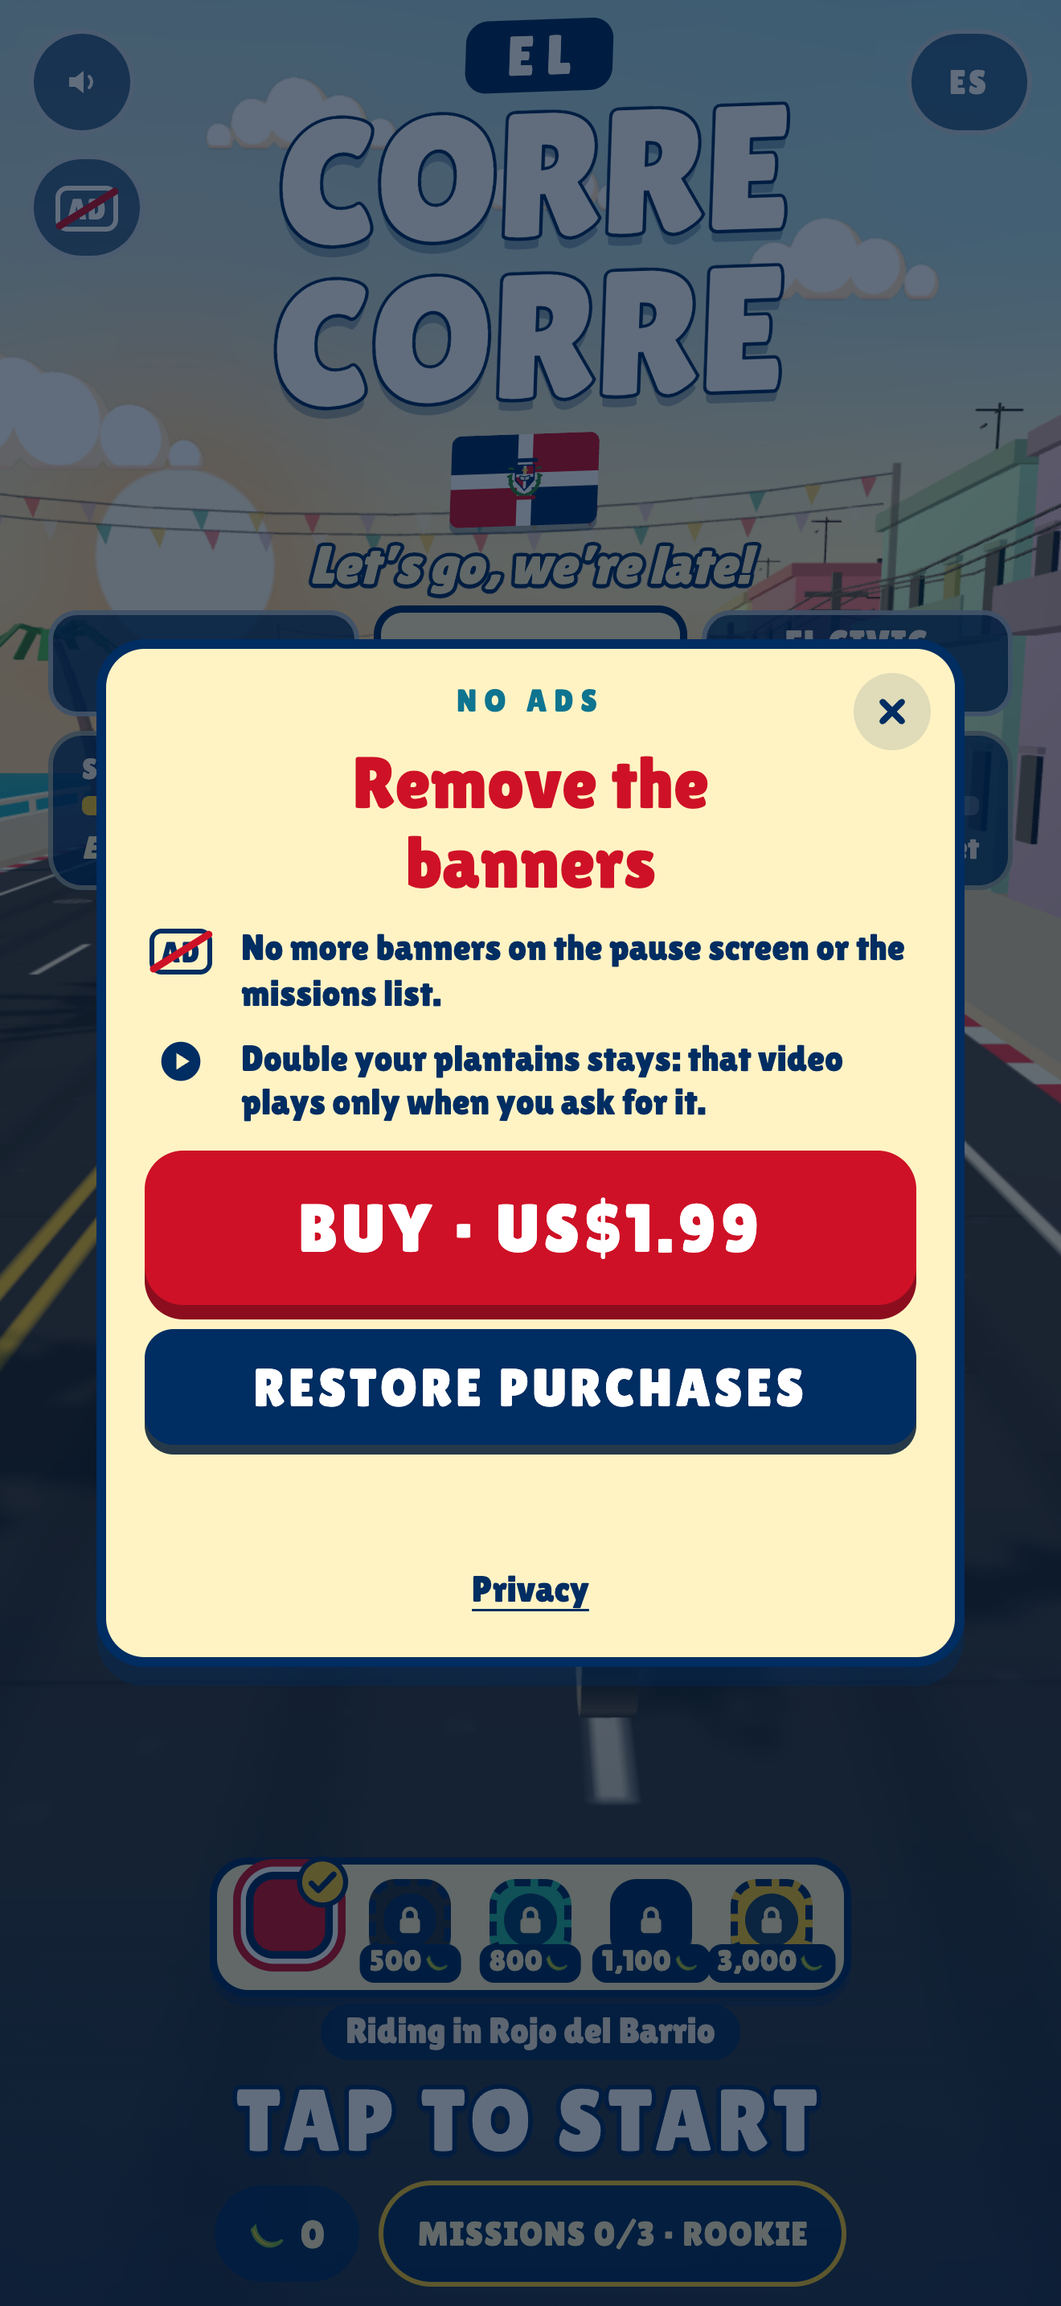
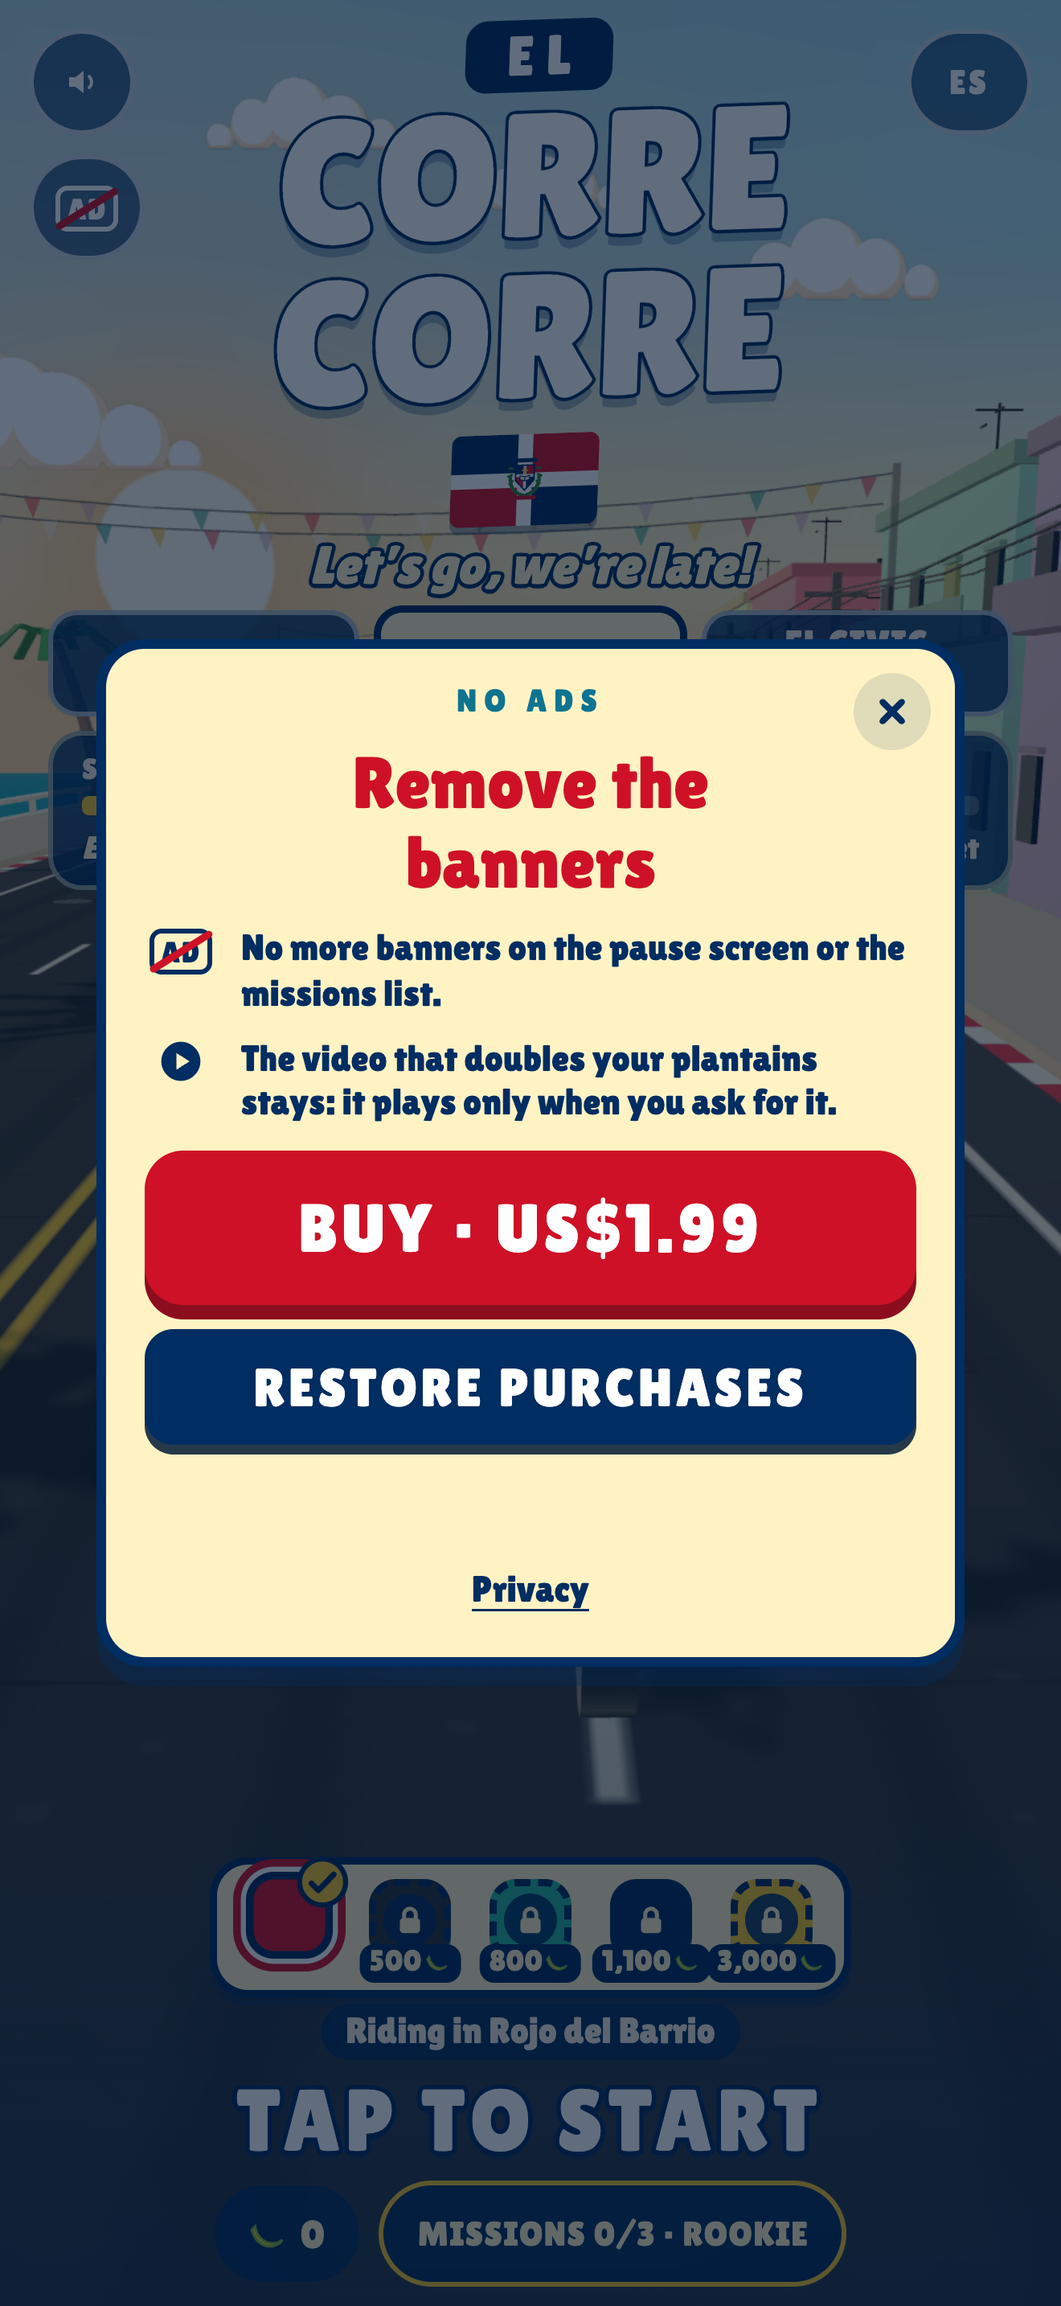
Duplica tus plátanos: the right Spanish for doubling
Dobla means fold. The reward is now Duplica tus plátanos everywhere: the
card line reads ¡Duplícalos con un anuncio! (EN Double them with an ad!),
which fits one line on the iPhone SE, and the Remove Ads sheet says El
video pa’ duplicar tus plátanos sigue ahí. Review screenshots re-rendered
(1320x2868, no alpha). app-ads.txt is already live on aaguasvivas.github.io,
so that owner step is marked done.

Changed region(s): [[0.2174, 0.4344, 0.8076, 0.4965]]

diff --git a/src/ui.ts b/src/ui.ts
@@ -173,10 +173,10 @@ export const STRINGS = {
     trickNounCar: 'derrape',
     // Ads (docs/audit/ADS-PLAN.md): the opt-in video on the card, the
     // Remove Ads sheet, the links on PAUSA.
-    rewardLine: '¡Dobla tus plátanos con un anuncio!',
+    rewardLine: '¡Duplícalos con un anuncio!',
     rewardTag: 'anuncio',
-    rewardAria: 'Dobla tus plátanos: ver un anuncio',
-    rewardDone: '¡doblados!',
+    rewardAria: 'Duplica tus plátanos: ver un anuncio',
+    rewardDone: '¡duplicados!',
     noAds: 'Quitar anuncios',
     adPrivacy: 'Privacidad de anuncios', // Google's consent choices again (shown only where required)
     adTestTag: 'ANUNCIOS\nDE PRUEBA', // build:adtest only, on the title under EN
@@ -184,7 +184,7 @@ export const STRINGS = {
     storeTitle: 'Quita los banners',
     storeTitleOwned: 'Ya no tienes banners',
     storeBanners: 'Se van los banners de la pausa y de Los Mandaos.',
-    storeVideos: 'Dobla tus plátanos sigue ahí: ese video sale solo cuando tú lo pides.',
+    storeVideos: 'El video pa’ duplicar tus plátanos sigue ahí: sale solo cuando tú lo pides.',
     storeBuy: (price: string) => `COMPRAR · ${price}`,
     storeBuyBare: 'COMPRAR',
     storeOwned: '¡Gracias por apoyar el juego!',
@@ -344,7 +344,7 @@ export const STRINGS = {
     } satisfies Record<MandaoKind, (n: number, trick: string) => string>,
     trickNounBike: 'Wheelie',
     trickNounCar: 'Drift',
-    rewardLine: 'Double your plantains with an ad!',
+    rewardLine: 'Double them with an ad!',
     rewardTag: 'ad',
     rewardAria: 'Double your plantains: watch an ad',
     rewardDone: 'doubled!',
@@ -355,7 +355,7 @@ export const STRINGS = {
     storeTitle: 'Remove the banners',
     storeTitleOwned: 'Your banners are gone',
     storeBanners: 'No more banners on the pause screen or the missions list.',
-    storeVideos: 'Double your plantains stays: that video plays only when you ask for it.',
+    storeVideos: 'The video that doubles your plantains stays: it plays only when you ask for it.',
     storeBuy: (price: string) => `BUY · ${price}`,
     storeBuyBare: 'BUY',
     storeOwned: 'Thanks for supporting the game!',
@@ -441,7 +441,7 @@ export interface UICallbacks {
   riderRect(out: Band): void;
   // A ¡HECHO! stamp landed on the game-over card (i: its order on the card).
   onStamp(i: number): void;
-  // "Dobla tus plátanos" on the game-over card.
+  // "Duplica tus plátanos" on the game-over card.
   onReward(): void;
   // Remove Ads: open its sheet, buy, restore; and the ad consent choices.
   onNoAds(): void;
@@ -578,7 +578,7 @@ const CHECK_SVG =
   '<svg viewBox="0 0 16 16" width="14" height="14" aria-hidden="true"><path d="M3 8.6l3.1 3.1L13 4.6" fill="none" stroke="currentColor" stroke-width="2.6" stroke-linecap="round" stroke-linejoin="round"/></svg>';
 const LOCK_SVG =
   '<svg viewBox="0 0 16 16" width="14" height="14" aria-hidden="true"><path d="M5.2 7.2V5.4a2.8 2.8 0 0 1 5.6 0v1.8" fill="none" stroke="currentColor" stroke-width="1.9"/><rect x="3.2" y="7" width="9.6" height="7.2" rx="1.8" fill="currentColor"/></svg>';
-// "Dobla tus plátanos": a video's play mark, and the check once it paid.
+// "Duplica tus plátanos": a video's play mark, and the check once it paid.
 const PLAY_SVG =
   '<svg viewBox="0 0 20 20" width="18" height="18" aria-hidden="true"><circle cx="10" cy="10" r="9" fill="#002d62"/><path d="M8 6.2v7.6l6-3.8z" fill="#fff3c4"/></svg>';
 const CHECK_RW_SVG =
@@ -751,7 +751,7 @@ export class UI {
   private mandaoSheetEl: HTMLElement;
   private pauseMandaosEl: HTMLElement;
   private btnPrivacyEl: HTMLElement;
-  // Ads: the card's "Dobla tus plátanos", the Remove Ads entries and sheet.
+  // Ads: the card's "Duplica tus plátanos", the Remove Ads entries and sheet.
   private btnReward: HTMLElement;
   private rewardTagEl: HTMLElement;
   private rewardOn = false;
@@ -1106,7 +1106,7 @@ export class UI {
         e.stopImmediatePropagation();
       }
     });
-    // "Dobla tus plátanos": its own tap only once armed (CSS lets the card
+    // "Duplica tus plátanos": its own tap only once armed (CSS lets the card
     // take every tap before that), and never twice.
     this.press(this.btnReward, () => {
       if (this.btnReward.classList.contains('armed') && !this.rewardPaid && !this.btnReward.classList.contains('busy')) this.cb.onReward();
@@ -1785,7 +1785,7 @@ export class UI {
 
   // ---------------- ads ----------------
 
-  // "Dobla tus plátanos" on the card: shown only while a video is loaded and
+  // "Duplica tus plátanos" on the card: shown only while a video is loaded and
   // this run can still be paid (main decides). It sits in the plátanos row,
   // up in the card and far from OTRA VEZ, and it only takes taps once the
   // card has been up CONFIG.rewardArmSec (until then a tap there is a tap

diff --git a/site/privacy.html b/site/privacy.html
@@ -45,7 +45,7 @@
     <p>Tus récords, tus plátanos, tus pinturas, tus mandaos y tu racha, tu vehículo preferido, el idioma, el ajuste de sonido y, si compraste Quitar anuncios, una marca de esa compra se guardan solamente en tu dispositivo. Si borras la app, se borran con ella.</p>
 
     <h2>Anuncios (Google AdMob)</h2>
-    <p>El juego muestra anuncios de Google AdMob: un banner pequeño en la pausa y en Los Mandaos, y un video que sale solo si tocas «Dobla tus plátanos». Nunca hay anuncios mientras corres. Para servir y medir esos anuncios, el SDK de anuncios de Google (Google Mobile Ads) y su herramienta de consentimiento (User Messaging Platform) recogen estos datos de tu dispositivo:</p>
+    <p>El juego muestra anuncios de Google AdMob: un banner pequeño en la pausa y en Los Mandaos, y un video que sale solo si tocas «Duplica tus plátanos». Nunca hay anuncios mientras corres. Para servir y medir esos anuncios, el SDK de anuncios de Google (Google Mobile Ads) y su herramienta de consentimiento (User Messaging Platform) recogen estos datos de tu dispositivo:</p>
     <ul>
       <li>tu dirección IP, que Google usa para estimar tu ubicación aproximada (nunca la exacta);</li>
       <li>identificadores del dispositivo: el identificador de publicidad de Apple (IDFA) si permites el rastreo, u otros identificadores que solo valen dentro de esta app o de las apps del mismo desarrollador;</li>
@@ -69,7 +69,7 @@
     <p>Si un anuncio te parece inapropiado, toca el ícono de AdChoices que lleva el anuncio: desde ahí Google te deja reportarlo. También puedes escribirme con la hora y lo que mostraba el anuncio.</p>
 
     <h2>Quitar anuncios (la compra)</h2>
-    <p>Quitar anuncios es una compra única dentro de la app. Apple procesa el pago: el juego nunca ve tu tarjeta ni tu Apple ID. El juego solo guarda en tu teléfono una marca de que la compra es tuya, y cada vez que abre la vuelve a revisar con el sistema de compras de Apple. «Restaurar compras» está en la misma hoja. La compra quita los banners. El video de «Dobla tus plátanos» se queda porque sale solo cuando tú lo pides, así que el SDK de anuncios y el mensaje de consentimiento siguen activos.</p>
+    <p>Quitar anuncios es una compra única dentro de la app. Apple procesa el pago: el juego nunca ve tu tarjeta ni tu Apple ID. El juego solo guarda en tu teléfono una marca de que la compra es tuya, y cada vez que abre la vuelve a revisar con el sistema de compras de Apple. «Restaurar compras» está en la misma hoja. La compra quita los banners. El video de «Duplica tus plátanos» se queda porque sale solo cuando tú lo pides, así que el SDK de anuncios y el mensaje de consentimiento siguen activos.</p>
 
     <h2>Compartir</h2>
     <p>Cuando tocas COMPARTIR, la tarjeta de tu corrida va solo a la app que tú escojas. Si la guardas en Fotos, el juego solo añade esa imagen y no lee tus fotos.</p>

diff --git a/src/ads.ts b/src/ads.ts
@@ -11,7 +11,7 @@
 //                   except the player's own answer. An explicit "no" keeps
 //                   ads dark; a consent step that breaks fails open to
 //                   non-personalized ads.
-//   RewardedOffer   "Dobla tus plátanos": one preloaded rewarded video, and
+//   RewardedOffer   "Duplica tus plátanos": one preloaded rewarded video, and
 //                   at most one reward per run.
 //   BannerSlot      the one anchored adaptive banner of the pause screen and
 //                   the Los Mandaos sheet: shown only while wanted, its
@@ -172,7 +172,7 @@ export async function runConsentFlow(port: AdsPort, env: FlowEnv, t: FlowTiming 
 }
 
 // ---------------------------------------------------------------------------
-// "Dobla tus plátanos": the rewarded video's bookkeeping. No plugin calls.
+// "Duplica tus plátanos": the rewarded video's bookkeeping. No plugin calls.
 // ---------------------------------------------------------------------------
 
 export type RewardedPhase = 'idle' | 'loading' | 'loaded' | 'showing';

diff --git a/src/config.ts b/src/config.ts
@@ -625,7 +625,7 @@ export const CONFIG = {
   // AdMob drops a rewarded ad an hour after it loaded; one held this long is
   // replaced at the next run start.
   rewardedMaxAgeSec: 3300,
-  // FEEL: "Dobla tus plátanos" on the game-over card takes taps only after
+  // FEEL: "Duplica tus plátanos" on the game-over card takes taps only after
   // the card has been up this long. Before that a tap on it is a tap on the
   // card, so OTRA VEZ, so a player hammering the screen to restart never
   // opens a video by accident.

diff --git a/src/main.ts b/src/main.ts
@@ -491,7 +491,7 @@ function syncBanner(): void {
   ads.setBannerWanted(calm && !ui.storeOpen && !adHold);
 }
 
-// "Dobla tus plátanos" on the card: only with a video loaded and a run that
+// "Duplica tus plátanos" on the card: only with a video loaded and a run that
 // earned at least one plátano and has not been paid.
 function refreshRewardOffer(): void {
   ui.setRewardOffer(state === 'gameover' && lastRun !== null && !adHold && ads.canOffer(lastRun.platanosEarned));

diff --git a/src/purchases.ts b/src/purchases.ts
@@ -1,5 +1,5 @@
 // purchases.ts: Remove Ads, the one in-app purchase ($1.99, non-consumable).
-// Owning it removes every banner; the opt-in "Dobla tus plátanos" video
+// Owning it removes every banner; the opt-in "Duplica tus plátanos" video
 // stays, since it only ever plays when the player taps it. No server and no
 // account: ownership is StoreKit's own record, re-read at launch, on every
 // transaction update and on restore, and cached in localStorage as

diff --git a/src/style.css b/src/style.css
@@ -1416,7 +1416,7 @@ body {
 
 /* ---------- Ads and Remove Ads (docs/audit/ADS-PLAN.md) ---------- */
 
-/* "Dobla tus plátanos": a compact gold button at the end of the card's
+/* "Duplica tus plátanos": a compact gold button at the end of the card's
    plátanos row, up in the card and far from OTRA VEZ. It stays invisible
    and lets every tap through to the card (OTRA VEZ) until it is armed
    (CONFIG.rewardArmSec), then fades in. */

diff --git a/src/__tests__/ads.test.ts b/src/__tests__/ads.test.ts
@@ -292,7 +292,7 @@ describe('Ads: the flow runs once', () => {
   });
 });
 
-describe('RewardedOffer: Dobla tus plátanos, once per run', () => {
+describe('RewardedOffer: Duplica tus plátanos, once per run', () => {
   it('offers only a loaded video, for a run that earned at least one plátano', () => {
     const o = new RewardedOffer();
     o.runStarted();

diff --git a/RELEASE.md b/RELEASE.md
@@ -83,16 +83,13 @@ Details for each step are in the sections below.
 5. **Privacy page.** Approve the push of `site/privacy.html` to the public
    `el-corre-corre-site` repo (a push needs your yes). Then fetch the live
    URL and diff it against `site/privacy.html`.
-6. **app-ads.txt** (ADS-PLAN.md owner step 3). AdMob reads
-   `app-ads.txt` at the root of the developer website domain on the store
-   listing. The marketing URL is
-   `https://aaguasvivas.github.io/el-corre-corre-site/`, so the file must
-   be at `https://aaguasvivas.github.io/app-ads.txt`, which needs a GitHub
-   Pages repo named `aaguasvivas.github.io`. Choosing that domain (or
-   another one) is your call. The file holds one line:
-   `google.com, pub-4879291425090726, DIRECT, f08c47fec0942fa0`
-   (copy the exact line AdMob shows under Apps > app-ads.txt). AdMob
-   verifies it after the app is linked to the live store listing.
+6. **app-ads.txt:** done. `https://aaguasvivas.github.io/app-ads.txt` is
+   live (checked 2026-10-20) with
+   `google.com, pub-4879291425090726, DIRECT, f08c47fec0942fa0`, the same
+   file Anota uses. The marketing URL
+   `https://aaguasvivas.github.io/el-corre-corre-site/` is on that domain,
+   so nothing else is needed. AdMob verifies it after the app is linked to
+   the live store listing.
 7. **In-app purchase** (ADS-PLAN.md owner step 4). Create Remove Ads in App
    Store Connect ("In-app purchase: Remove Ads" below). If you choose a
    product id other than `elcorrecorre.remove_ads`, change
@@ -369,7 +366,7 @@ ES:
 ```
 Build 11: anuncios y Quitar anuncios.
 Al abrir por primera vez, el juego pregunta por el rastreo en la pantalla de inicio, nunca en una corrida.
-Choca con plátanos recogidos: el botón ×2 de la tarjeta pone un video y dobla los plátanos de esa corrida. Es opcional.
+Choca con plátanos recogidos: el botón ×2 de la tarjeta pone un video y duplica los plátanos de esa corrida. Es opcional.
 En la pausa y en Los Mandaos hay un banner pequeño. Nunca mientras corres.
 Quitar anuncios (el botón AD debajo del sonido) quita los banners. En TestFlight la compra es de prueba y no cobra.
 Prueba también sin internet: el juego tiene que funcionar igual, sin anuncios.
@@ -517,9 +514,8 @@ The note is 2336 characters (the field allows 4000).
 2. **Version release:** manual or automatic (submission step 9).
 3. **Share link:** `SHARE_URL` in `src/ui.ts` is empty, so the share card
    has no URL footer.
-4. **app-ads.txt domain:** owner step 6.
-5. **Contests answer** in the age rating (submission step 2).
-6. **Family Sharing** for Remove Ads ("In-app purchase" step 6).
+4. **Contests answer** in the age rating (submission step 2).
+5. **Family Sharing** for Remove Ads ("In-app purchase" step 6).
 
 ## After launch (roadmap lives in CLAUDE.md and docs/audit/PLAN.md)
 

diff --git a/docs/audit/ADS-PLAN.md b/docs/audit/ADS-PLAN.md
@@ -5,7 +5,7 @@ Owner decisions (Adelson, 2026-10-17), added to docs/audit/PLAN.md:
 1. **Ads ship in the first App Store release (1.0).** Build 10 (no ads) is
    superseded and is never submitted. 1.0 ships as build 11 or later.
 2. **Formats: rewarded plus a small banner.**
-   - Rewarded video, opt-in only: "Dobla tus plátanos" / "Double your
+   - Rewarded video, opt-in only: "Duplica tus plátanos" / "Double your
      plantains" on the game-over card doubles the plátanos earned in that
      run. It never blocks OTRA VEZ, never plays unless tapped, and never
      touches points, distance or records.
@@ -74,7 +74,7 @@ Owner decisions (Adelson, 2026-10-17), added to docs/audit/PLAN.md:
   "no" keeps ads dark; a consent step that breaks fails open. Ads are
   non-personalized unless the player allowed tracking and the consent step
   answered (DECISION). Ad content is capped at PG (DECISION).
-- **Dobla tus plátanos:** a video preloads at SDK start and at every run
+- **Duplica tus plátanos:** a video preloads at SDK start and at every run
   start (and after each video). The card offers it only with a video loaded
   and at least 1 plátano earned; it arms 0.9 s after the card lands (a tap
   there before that is OTRA VEZ). The reward is the run's whole plátano take
@@ -112,9 +112,9 @@ not pushed.
    `npm run build` stops with a message that points here.
 2. AdMob > Privacy & messaging: publish a GDPR message and an IDFA explainer
    message for this app.
-3. app-ads.txt: AdMob checks `https://<developer website domain>/app-ads.txt`
-   with the line for pub-4879291425090726. The store listing's marketing URL
-   decides the domain (choose where to host it).
+3. app-ads.txt: done. It is already live at
+   `https://aaguasvivas.github.io/app-ads.txt` (same domain as the marketing
+   URL; checked 2026-10-20).
 4. App Store Connect: create the non-consumable `elcorrecorre.remove_ads`
    (or the id you prefer; then change `REMOVE_ADS_PRODUCT_ID` in
    `src/adIds.ts` and the `productID` in `ios/App/App/Products.storekit`)

diff --git a/HANDOFF.md b/HANDOFF.md
@@ -87,7 +87,7 @@ link (a "Privacidad" / "Privacy" link at the bottom of PAUSA that opens the
 site page in Safari). Still open: publishing the privacy page.
 
 **Ads for release 1.0 (branch `ads-1.0`, 2026-10-18).** Capacitor 8,
-then the ads: the consent and tracking flow, "Dobla tus plátanos" on the
+then the ads: the consent and tracking flow, "Duplica tus plátanos" on the
 card, one banner on PAUSA and the mandao sheet, and the $1.99 Remove Ads
 purchase. Decisions, what was built and the owner steps:
 [docs/audit/ADS-PLAN.md](docs/audit/ADS-PLAN.md). `npm run build` fails
@@ -485,7 +485,7 @@ production-like bundle serves `dist-probe/`.
   kicker?)`.
 - **Ads and Remove Ads:** `ads()` returns `{enabled, ready, outcome, npa,
   rewarded, paid, offer, banner, hold}`; `store()` returns `{available,
-  adFree, price, priceState, open}`; `reward()` taps "Dobla tus plátanos".
+  adFree, price, priceState, open}`; `reward()` taps "Duplica tus plátanos".
   They do something only on a page opened with `?ads=sim`, whose stand-ins
   are steered through `window.__eccSim` (see `src/simAds.ts`); add
   `&adprivacy=1` for a consent check that asks for the ad privacy link.

diff --git a/STORE.md b/STORE.md
@@ -53,7 +53,7 @@ La Pasola, chiquita pero cumplidora. El Motor, el clásico del barrio. El Civic 
 Dembow de fondo, y cafecito, bendición e imán en la calle. Cuando chocas, OTRA VEZ te pone a correr de nuevo al instante.
 
 ANUNCIOS Y COMPRAS
-El juego es gratis y tiene anuncios: un banner pequeño en la pausa y en Los Mandaos, nunca mientras corres. Al final de una corrida puedes ver un video, si quieres, pa’ doblar los plátanos de esa corrida. Quitar anuncios es una compra única dentro de la app que quita los banners; el video opcional se queda. Las pinturas se compran solo con plátanos del juego, nunca con dinero.
+El juego es gratis y tiene anuncios: un banner pequeño en la pausa y en Los Mandaos, nunca mientras corres. Al final de una corrida puedes ver un video, si quieres, pa’ duplicar los plátanos de esa corrida. Quitar anuncios es una compra única dentro de la app que quita los banners; el video opcional se queda. Las pinturas se compran solo con plátanos del juego, nunca con dinero.
 
 Sin cuentas, y sin internet se juega completo. Toca y dale.
 ```
